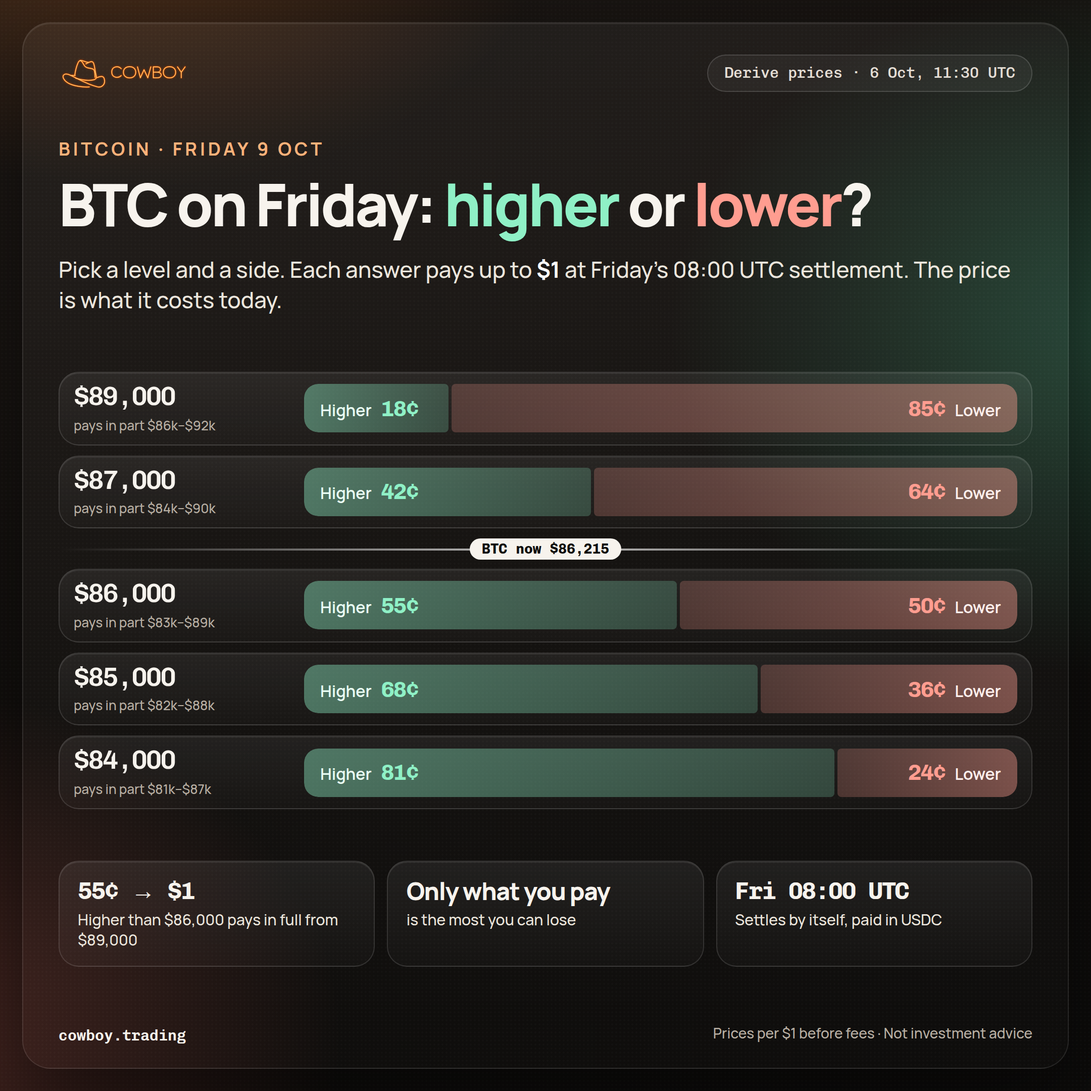
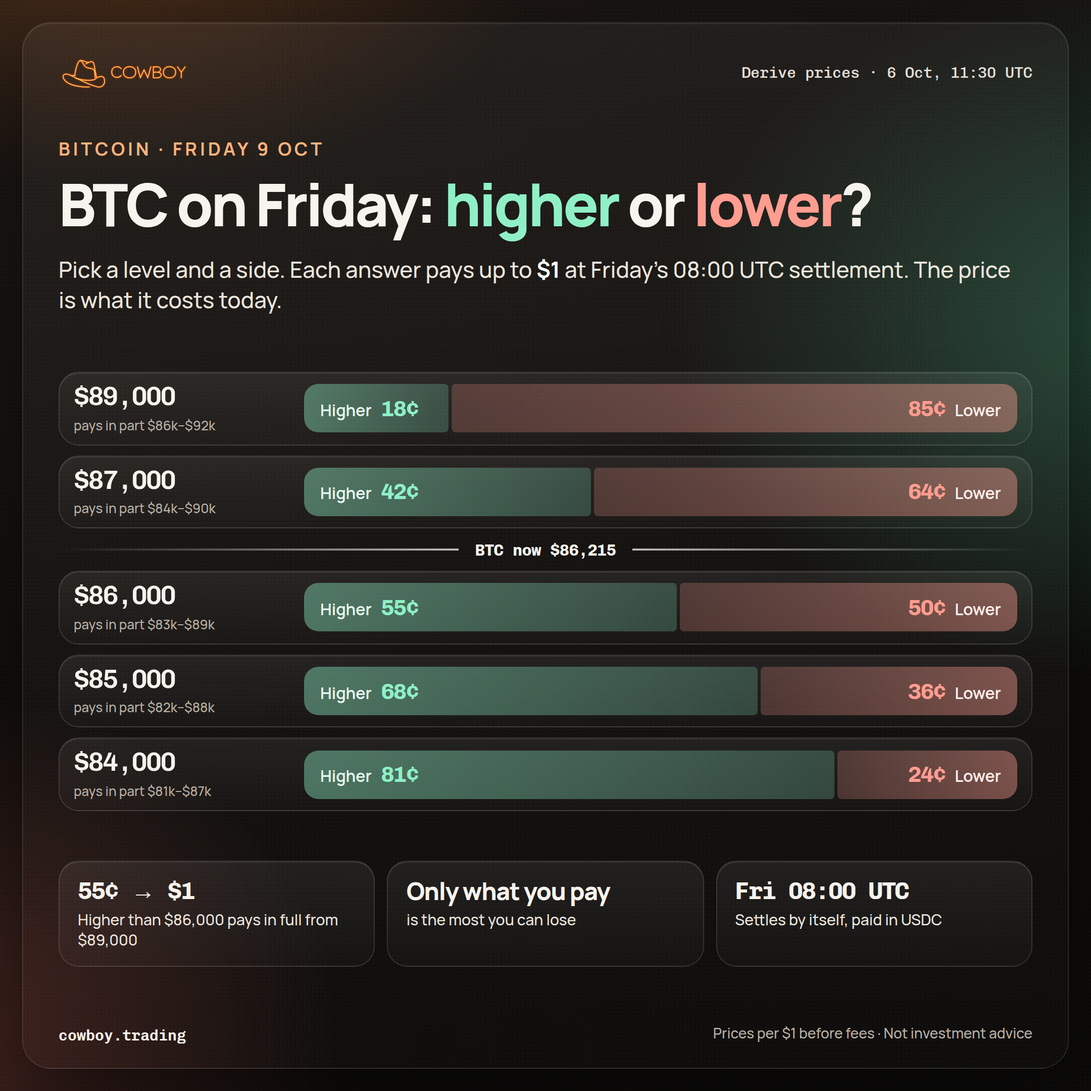
X cards: no pills, plain text labels on all three mockups
Claude-Session: https://claude.ai/code/session_01598CVtsseYXRguY1ryNXaU

Changed region(s): [[0.062, 0.5273, 0.9306, 0.7444], [0.6514, 0.062, 0.9616, 0.0931], [0.4032, 0.4963, 0.5894, 0.5273]]

diff --git a/docs/x-cards/options-range-square-mockup.py b/docs/x-cards/options-range-square-mockup.py
@@ -29,8 +29,8 @@ while g < hi:
     g += 5000
 ticks = "".join(f'<line x1="{X(t):.1f}" x2="{X(t):.1f}" y1="{Y0-10}" y2="{Y1}" class="exp"/><text x="{X(t):.1f}" y="{Y1+28}" class="ax mid">{"Fri " if i == 0 else ""}{dm(t)}</text>' for i, (t, _) in enumerate(cone[1:]))
 e0 = cone[1]
-labels = (f'<g class="pin"><rect x="{X(e0[0])+10:.1f}" y="{Y(e0[1][3])-34:.1f}" width="86" height="28" rx="14" class="pinu"/><text x="{X(e0[0])+53:.1f}" y="{Y(e0[1][3])-15:.1f}" class="pt mid">{k(e0[1][3])}</text></g>'
-          f'<g class="pin"><rect x="{X(e0[0])+10:.1f}" y="{Y(e0[1][1])+6:.1f}" width="86" height="28" rx="14" class="pind"/><text x="{X(e0[0])+53:.1f}" y="{Y(e0[1][1])+25:.1f}" class="pt mid">{k(e0[1][1])}</text></g>')
+labels = (f'<text x="{X(e0[0])+4:.1f}" y="{Y(e0[1][3])-30:.1f}" class="pt up">{k(e0[1][3])}</text>'
+          f'<text x="{X(e0[0])+4:.1f}" y="{Y(e0[1][1])+46:.1f}" class="pt dn">{k(e0[1][1])}</text>')
 html = f"""<!doctype html><html><head><meta charset="utf-8"><style>
 @font-face {{ font-family: Manrope; src: url(manrope-latin-variable.woff2) format('woff2'); font-weight: 200 800; }}
 @font-face {{ font-family: Chivo Mono; src: url(chivo-mono-latin-variable.woff2) format('woff2'); font-weight: 100 900; }}
@@ -45,7 +45,7 @@ body {{ width: {W}px; height: {W}px; overflow: hidden; position: relative; color
   background: linear-gradient(180deg, rgba(255,255,255,.045), rgba(255,255,255,.01)); box-shadow: inset 0 1px 0 rgba(255,255,255,.08), 0 30px 80px rgba(0,0,0,.45); }}
 .top {{ position: absolute; left: 58px; right: 58px; top: 52px; display: flex; justify-content: space-between; align-items: center; }}
 .top img {{ height: 40px; }}
-.chip {{ font: 500 15px/1 'Chivo Mono'; color: #e4ded5; padding: 10px 16px; border-radius: 999px; border: 1px solid rgba(255,255,255,.14); background: rgba(255,255,255,.05); }}
+.chip {{ font: 500 15px/1 'Chivo Mono'; color: #e4ded5; }}
 .eyebrow {{ position: absolute; left: 58px; top: 138px; font: 700 18px/1 Manrope; letter-spacing: .16em; text-transform: uppercase; color: #ffb27a; }}
 h1 {{ position: absolute; left: 58px; right: 58px; top: 172px; font: 800 58px/1.04 Manrope; letter-spacing: -.04em; }}
 h1 .dn {{ color: #ff9d90; }} h1 .up {{ color: #8ff0c6; }} h1 .n {{ font-family: 'Chivo Mono'; font-weight: 600; letter-spacing: -.06em; }}
@@ -54,7 +54,7 @@ h1 .dn {{ color: #ff9d90; }} h1 .up {{ color: #8ff0c6; }} h1 .n {{ font-family: 
 svg {{ position: absolute; left: 0; top: 0; }}
 .grid {{ stroke: rgba(255,255,255,.07); }} .exp {{ stroke: rgba(255,255,255,.14); stroke-dasharray: 2 6; }}
 .ax {{ font: 400 15px 'Chivo Mono'; fill: #b9b0a4; }} .mid {{ text-anchor: middle; }}
-.pt {{ font: 600 15px 'Chivo Mono'; fill: #0e0d0b; }} .pinu {{ fill: #8ff0c6; }} .pind {{ fill: #ff9d90; }}
+.pt {{ font: 700 20px 'Chivo Mono'; letter-spacing: -.03em; }} .pt.up {{ fill: #8ff0c6; }} .pt.dn {{ fill: #ff9d90; }}
 .tiles {{ position: absolute; left: 58px; right: 58px; top: 850px; display: grid; grid-template-columns: repeat(3, 1fr); gap: 14px; }}
 .tile {{ border-radius: 20px; padding: 18px 20px; border: 1px solid rgba(255,255,255,.12); background: linear-gradient(180deg, rgba(255,255,255,.07), rgba(255,255,255,.025)); box-shadow: inset 0 1px 0 rgba(255,255,255,.08); }}
 .tile b {{ display: block; font: 700 30px/1.05 'Chivo Mono'; letter-spacing: -.05em; }}

diff --git a/docs/x-cards/ladder.py b/docs/x-cards/ladder.py
@@ -28,9 +28,11 @@ body = f"""<style>
 .hi b {{ color: #8ff0c6; margin-left: 6px; }}
 .lo {{ background: linear-gradient(90deg, rgba(255,157,144,.22), rgba(255,157,144,.42)); color: #fff0ed; justify-content: flex-end; border-radius: 4px 14px 14px 4px; }}
 .lo b {{ color: #ff9d90; margin-right: 6px; }}
-.now {{ position: relative; height: 20px; }}
-.now::before {{ content: ""; position: absolute; left: 0; right: 0; top: 10px; height: 2px; background: linear-gradient(90deg, rgba(255,255,255,.0), rgba(255,255,255,.75), rgba(255,255,255,.0)); }}
-.now span {{ position: absolute; left: 50%; top: 0; transform: translateX(-50%); padding: 2px 12px; border-radius: 999px; background: #f7f3ed; color: #0e0d0b; font: 700 14px 'Chivo Mono'; }}
+.now {{ display: flex; align-items: center; gap: 16px; height: 22px; }}
+.now::before, .now::after {{ content: ""; flex: 1; height: 2px; }}
+.now::before {{ background: linear-gradient(90deg, rgba(255,255,255,0), rgba(255,255,255,.7)); }}
+.now::after {{ background: linear-gradient(90deg, rgba(255,255,255,.7), rgba(255,255,255,0)); }}
+.now span {{ font: 700 16px 'Chivo Mono'; color: #f7f3ed; letter-spacing: -.02em; }}
 .tiles {{ position: absolute; left: 58px; right: 58px; top: 852px; display: grid; grid-template-columns: repeat(3, 1fr); gap: 12px; }}
 .tile {{ padding: 16px 18px; }}
 .tile b {{ display: block; font: 800 24px/1.1 Manrope; letter-spacing: -.03em; }} .tile b.m {{ font-family: 'Chivo Mono'; font-weight: 700; letter-spacing: -.05em; }}

diff --git a/docs/x-cards/base.py b/docs/x-cards/base.py
@@ -15,7 +15,7 @@ body {{ width: {W}px; height: {W}px; overflow: hidden; position: relative; color
   background: linear-gradient(180deg, rgba(255,255,255,.045), rgba(255,255,255,.01)); box-shadow: inset 0 1px 0 rgba(255,255,255,.08), 0 30px 80px rgba(0,0,0,.45); }}
 .top {{ position: absolute; left: 58px; right: 58px; top: 52px; display: flex; justify-content: space-between; align-items: center; }}
 .top img {{ height: 40px; }}
-.chip {{ font: 500 15px/1 'Chivo Mono'; color: #e4ded5; padding: 10px 16px; border-radius: 999px; border: 1px solid rgba(255,255,255,.14); background: rgba(255,255,255,.05); }}
+.chip {{ font: 500 15px/1 'Chivo Mono'; color: #e4ded5; }}
 .eyebrow {{ position: absolute; left: 58px; top: 138px; font: 700 18px/1 Manrope; letter-spacing: .16em; text-transform: uppercase; color: #ffb27a; }}
 h1 {{ position: absolute; left: 58px; right: 58px; top: 172px; font: 800 58px/1.04 Manrope; letter-spacing: -.04em; }}
 .g {{ color: #8ff0c6; }} .r {{ color: #ff9d90; }} .n {{ font-family: 'Chivo Mono'; font-weight: 600; letter-spacing: -.06em; }}
